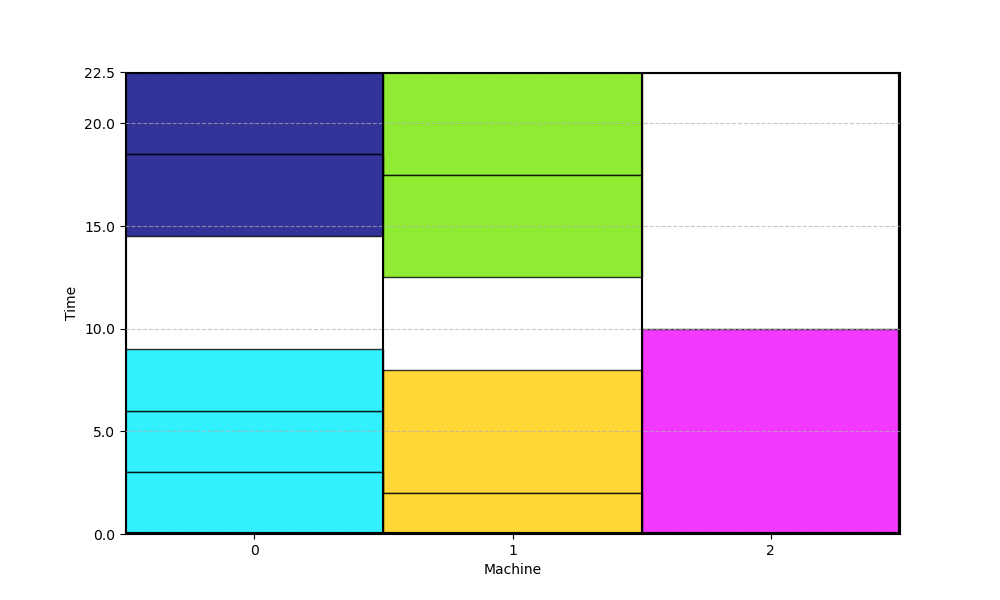
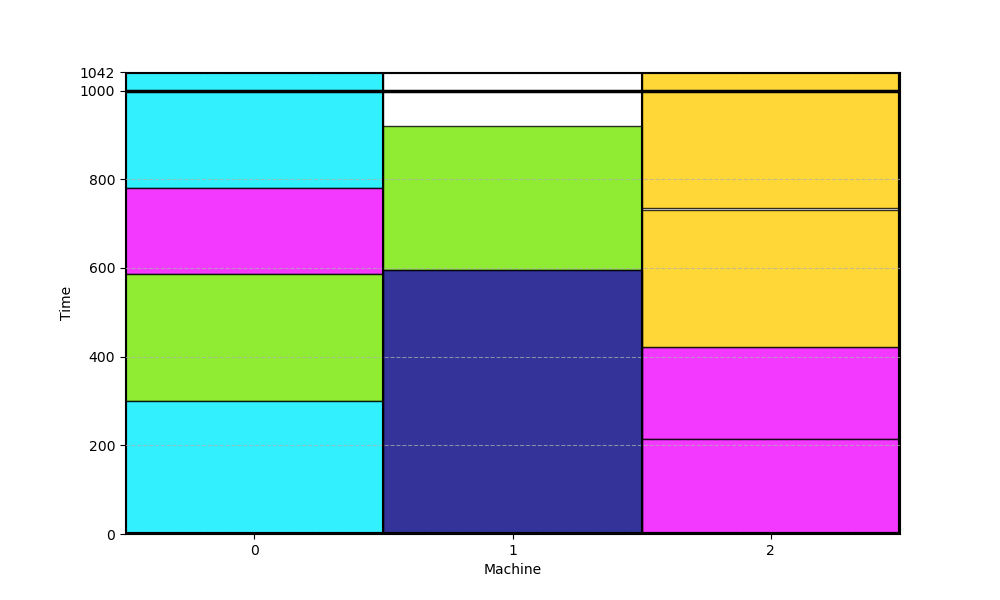
Fixat så att makespan är 1000

diff --git a/utils/visualize_by_time_machine.py b/utils/visualize_by_time_machine.py
@@ -4,6 +4,7 @@ import numpy as np # type: ignore
 import random
 random.seed(6215)
 
+T = 1000 #Optimal makespan
 # Read data from file
 with open("temp.txt", "r") as f:
     lines = f.readlines()
@@ -76,7 +77,7 @@ for i in range(1, m):
     ax.axvline(i * machine_width, color='black', linestyle='-', linewidth=1.5)
 
 # Add y-ticks, including last end time
-yticks = list(range(0, int(last_end_time) + 5, 5))
+yticks = list(range(0, int(last_end_time) + 200, 200))
 if last_end_time not in yticks:  # Ensure last_end_time is included if it's not an integer
     yticks.append(last_end_time)
 yticks = sorted(yticks)
@@ -96,6 +97,9 @@ ax.set_ylim(0, last_end_time)
 #ax.legend(handles=handles, loc="upper right")
 
 plt.grid(axis="y", linestyle="--", alpha=0.7)
+
+#Marking the optimal makespan T
+ax.axhline(y=T, color='black', linestyle='-', linewidth=2.5, label=f"Optimal T = {T}")
 
 plt.savefig("imgs/senast_genererade_bilden.png")
 plt.show()

diff --git a/algos/ILP.py b/algos/ILP.py
@@ -18,7 +18,7 @@ def solve_ilp(n,p,m,classes):
     model = gp.Model("MSRS")
     
     M = sum(p.values())#satte som summar av alla processingtimes
-    epsilon = 0.001
+    epsilon = 0.05
 
     #VARIABLER
 
@@ -129,7 +129,7 @@ def solve_ilp(n,p,m,classes):
                 if j != j_prime:  # Olika jobb i samma klass
                     model.addConstr(z[j, j_prime] == 0,
                         name=f"resource_conflict_{j}_{j_prime}")
-                    
+       
     model.optimize()
 
     if model.status == GRB.OPTIMAL:

diff --git a/utils/testgenerator.py b/utils/testgenerator.py
@@ -51,7 +51,7 @@ def distribute_sum_with_bounds(target_sum, num_parts, ub):
 m = 3 #Number of machines
 c = 5 #Number of classes
 n = 10 #Number of jobs
-T = 15 #Optimal makespan
+T = 1000 #Optimal makespan
 
 jobs= [] #jobs[i] --> (processing time,class) for job i, i = 0, ..., n-1
   
